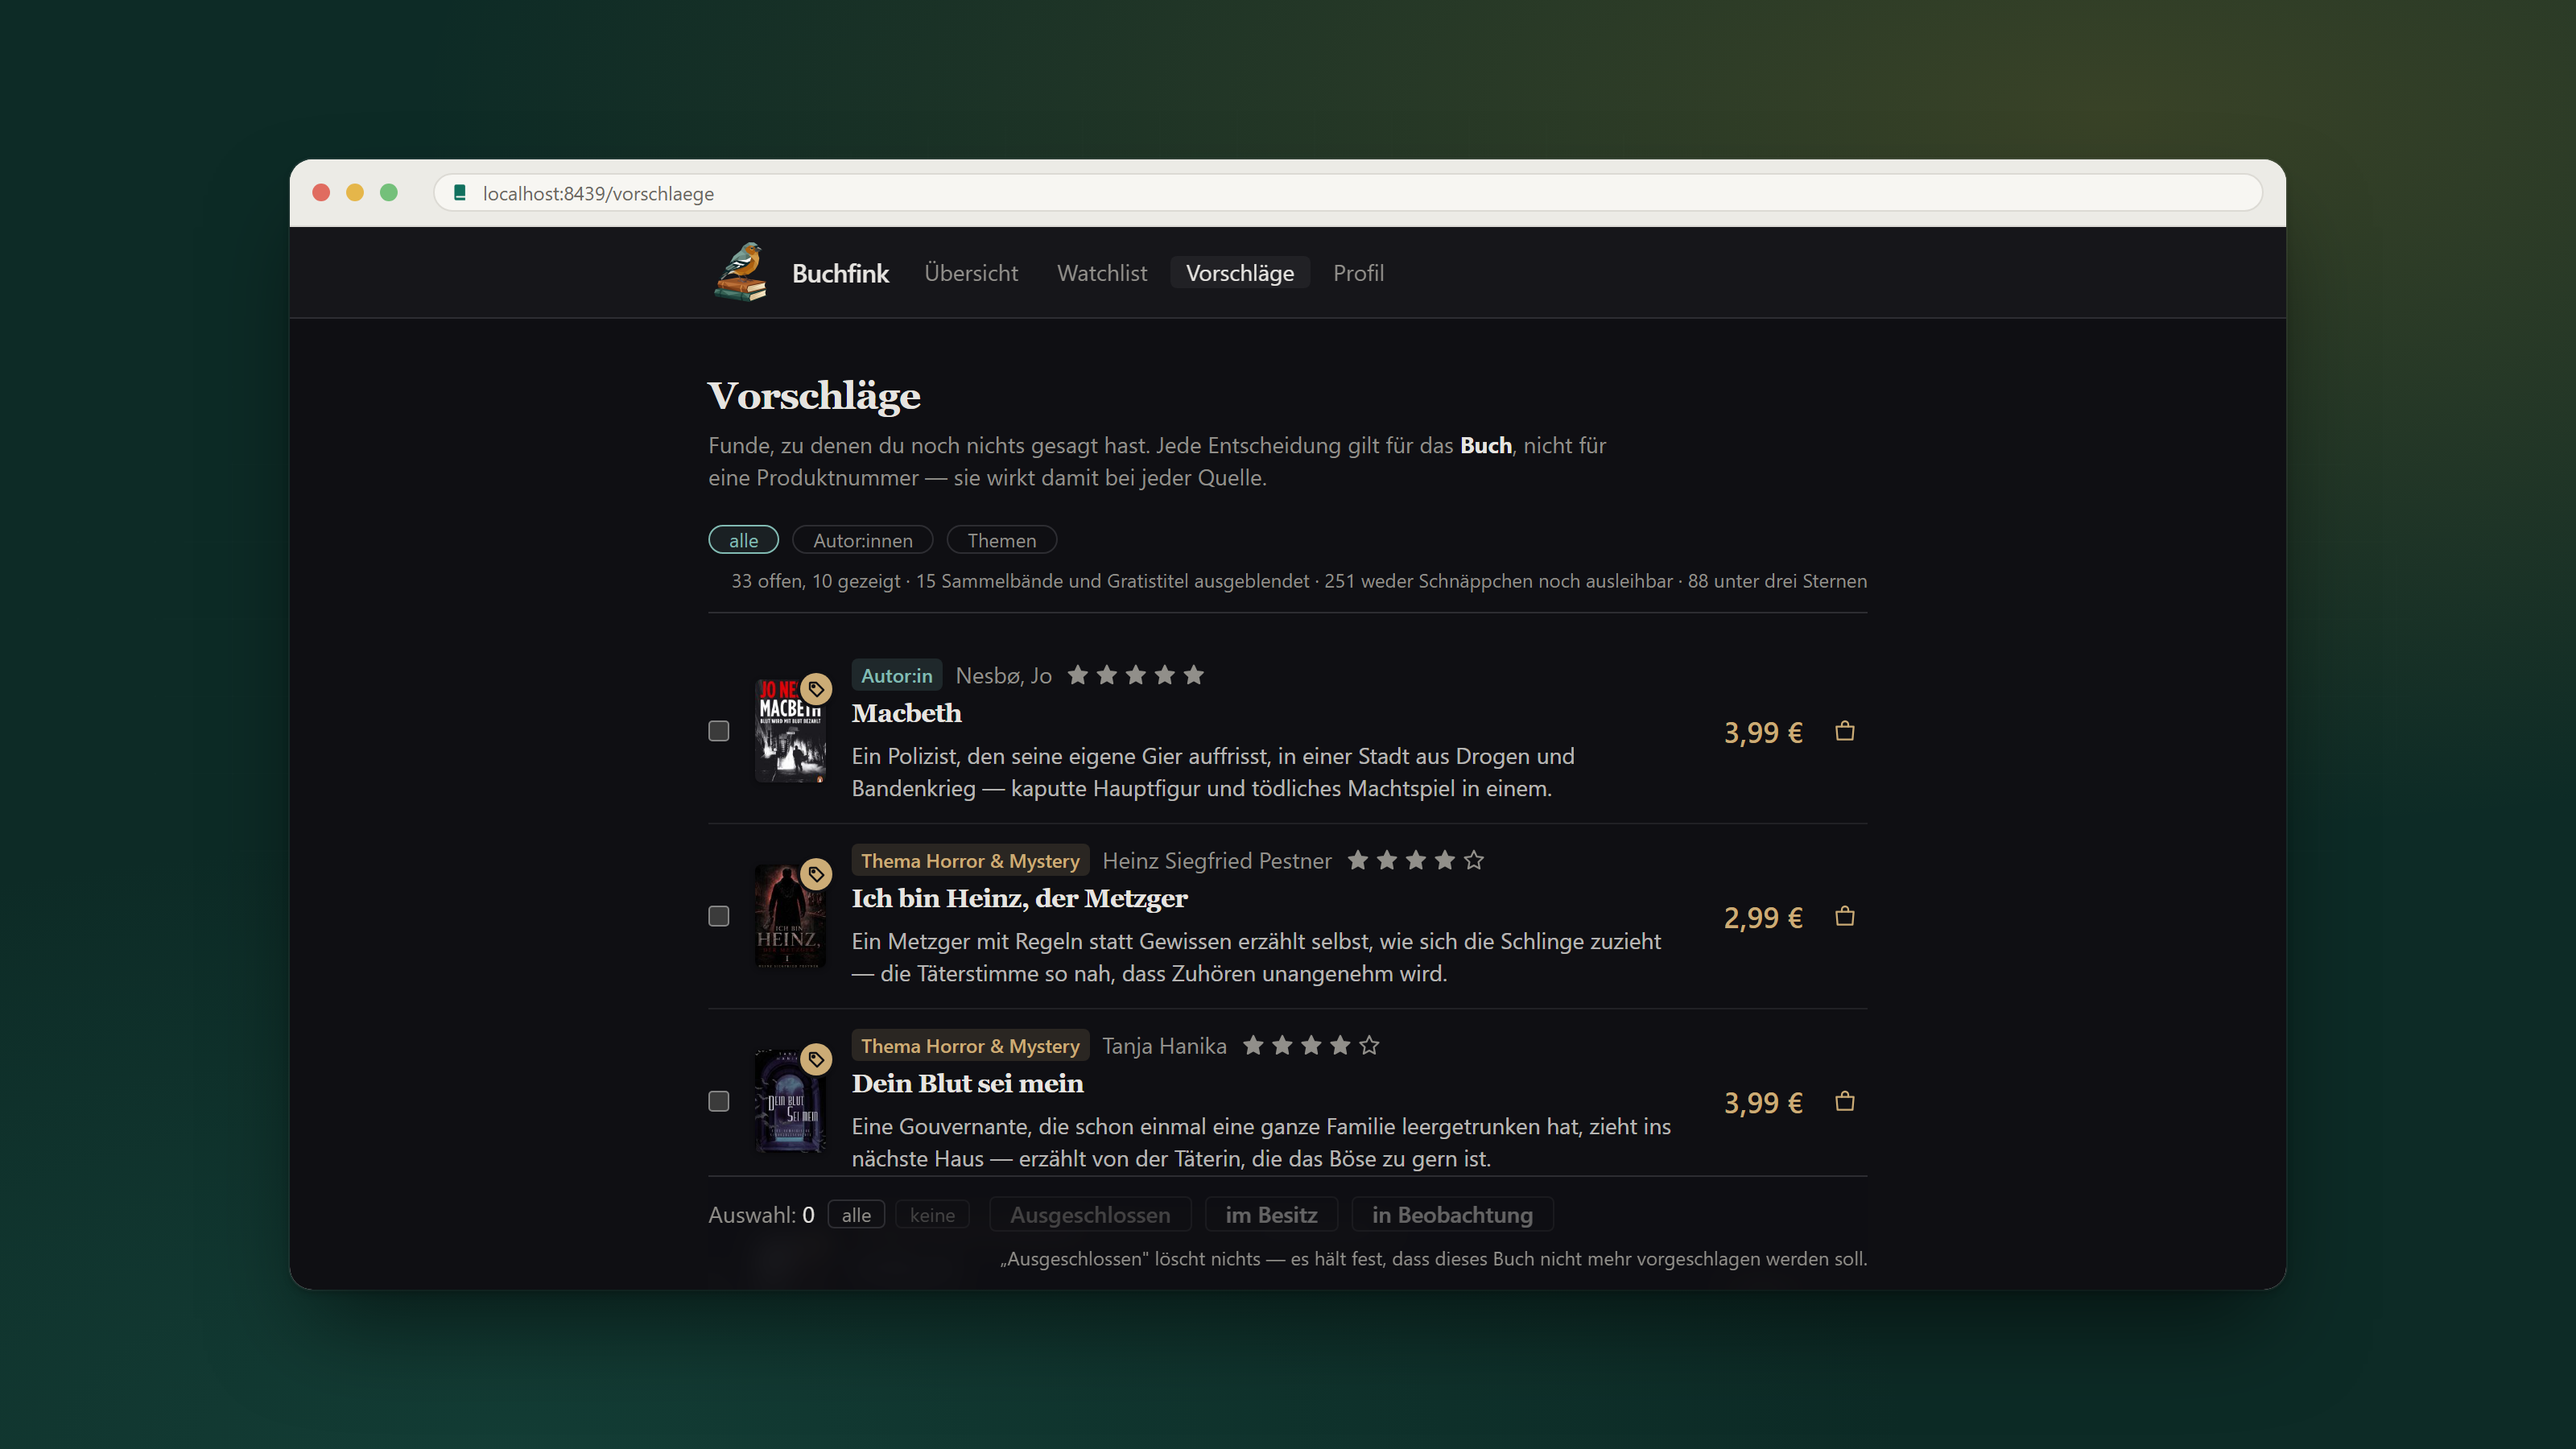
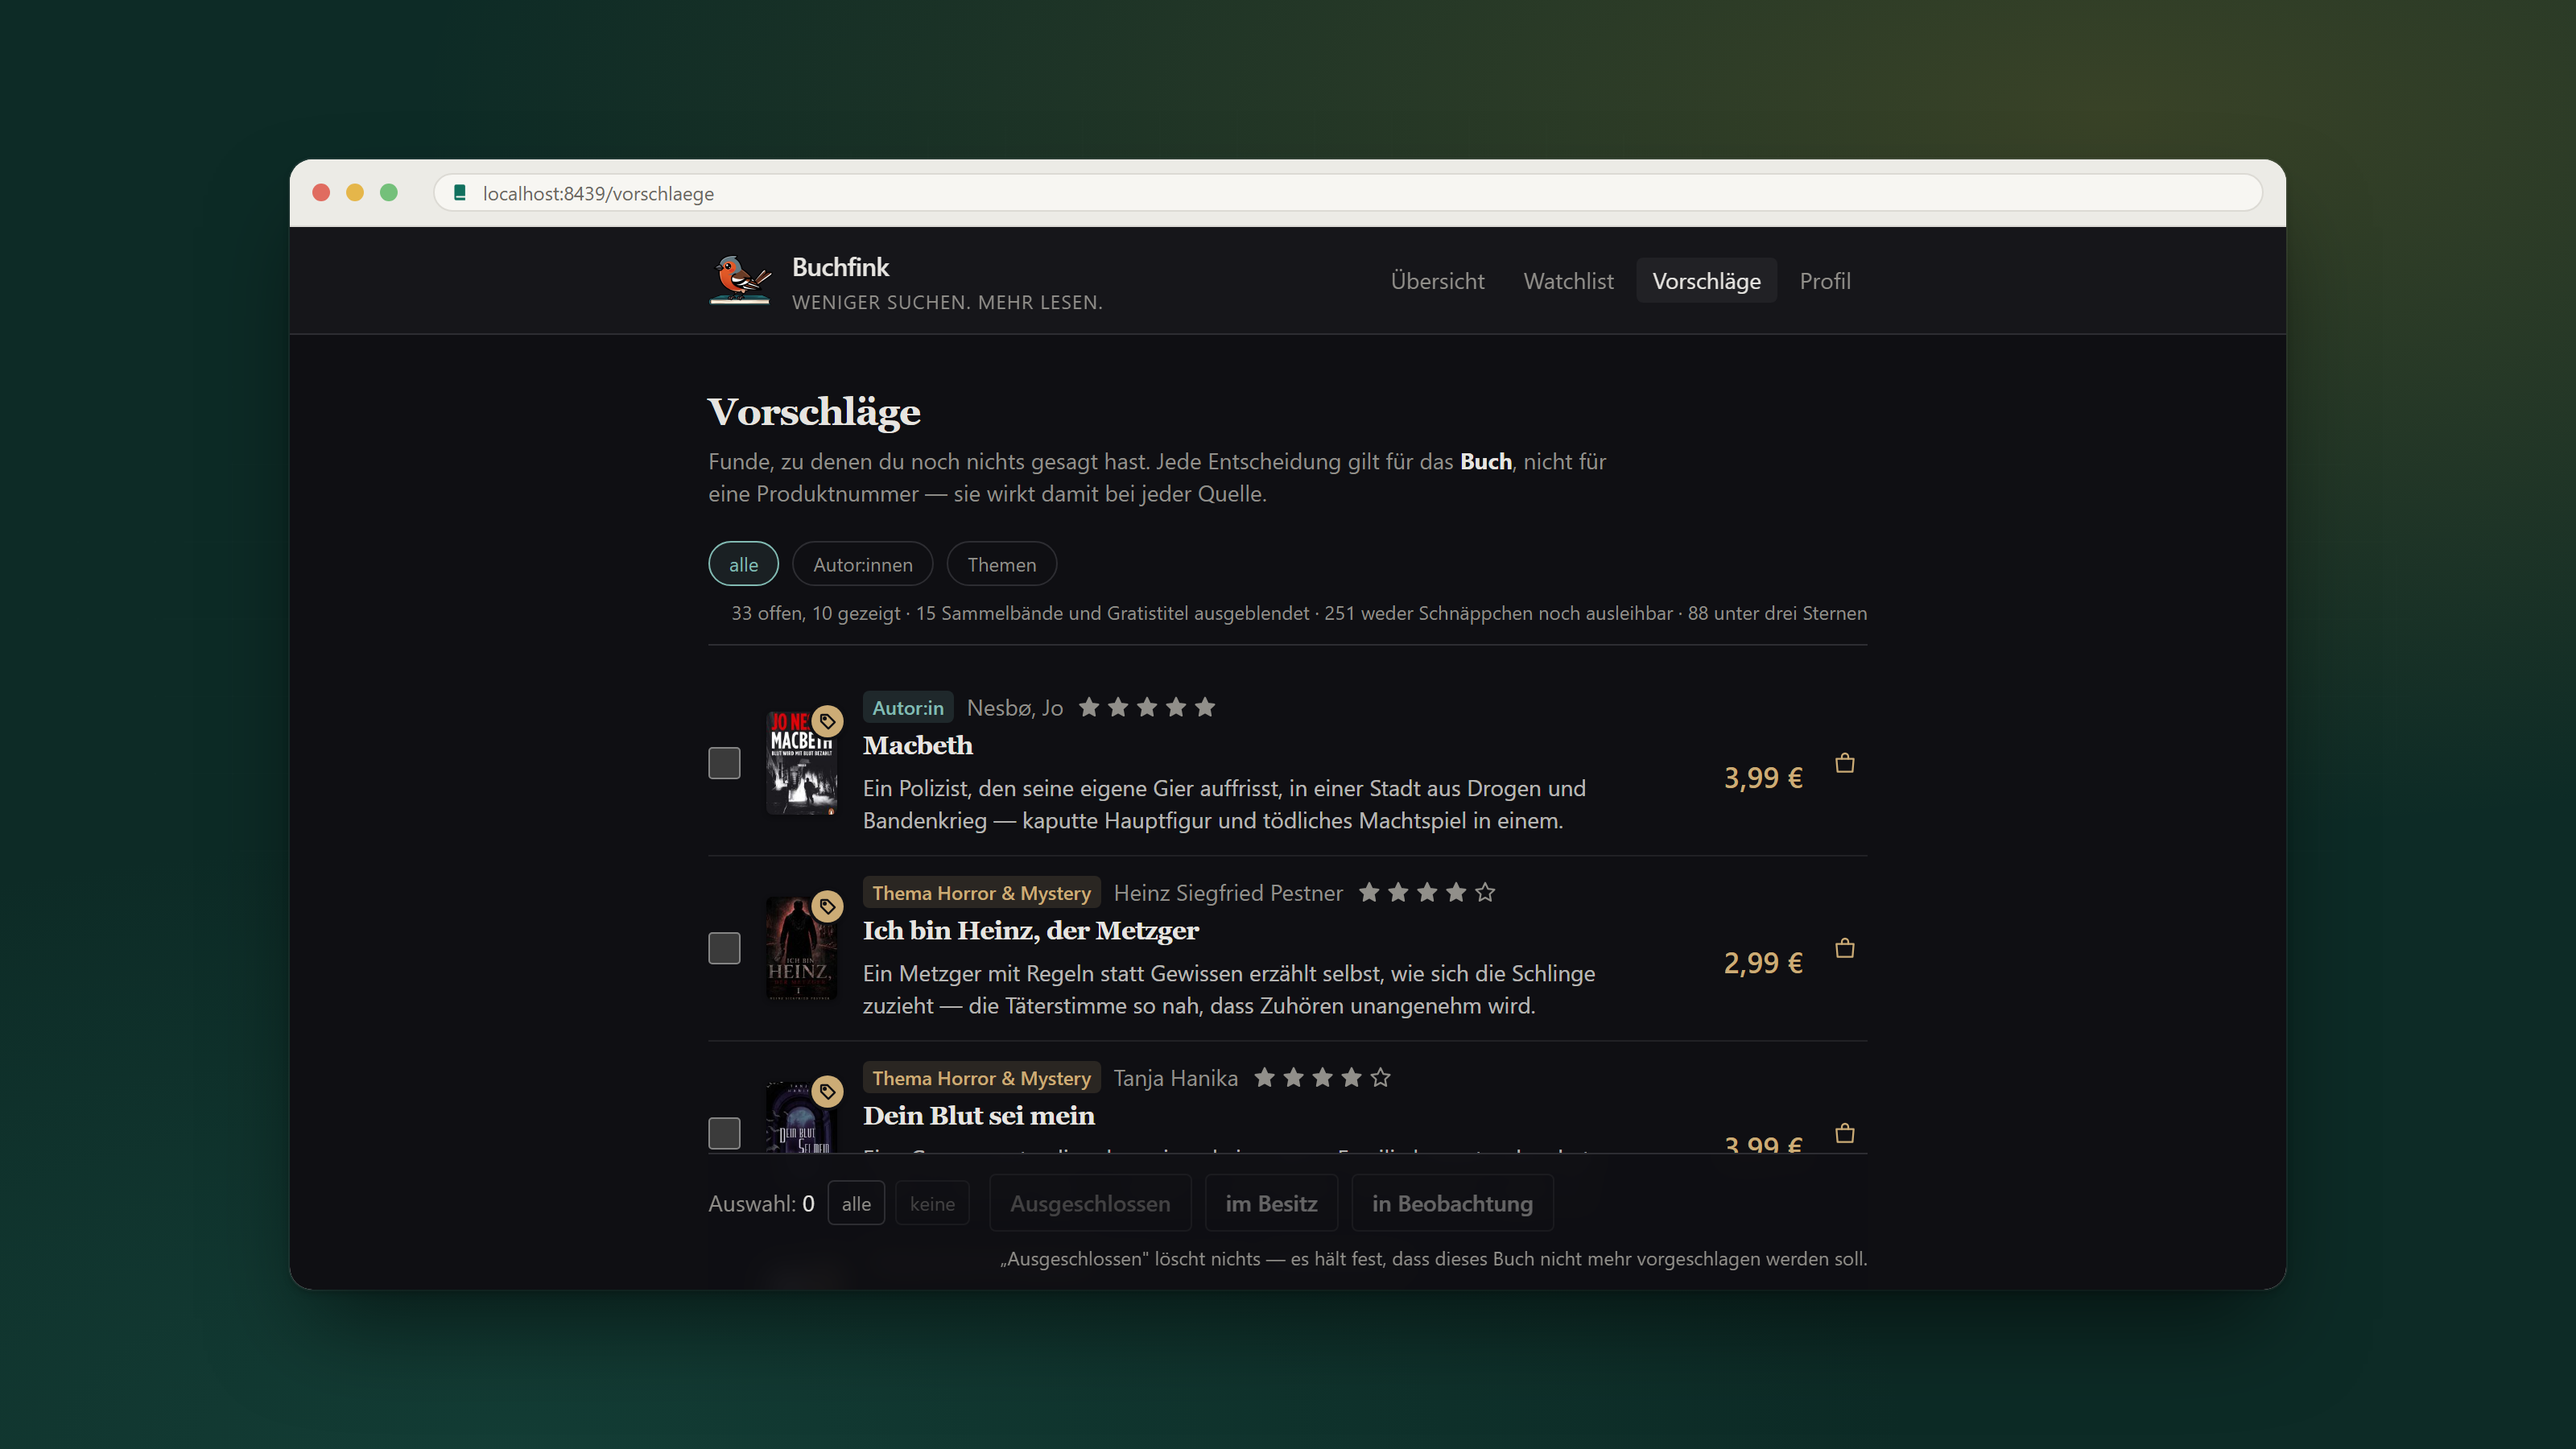
Eine dritte Szene für die Watchlist, und alle drei neu aufgenommen
Die README bekommt mit dem Umbau einen Screenshot der Watchlist dazu, also
braucht scripts/make_screenshots.py eine dritte Szene neben vorschlaege und
buchseite. Alle drei laufen gegen den neuen Kopfzeilen-Buchfink neu.

diff --git a/scripts/watchlist.html b/scripts/watchlist.html
@@ -1,0 +1,105 @@
+<!doctype html>
+<html lang="de">
+<head>
+<meta charset="utf-8">
+<title>Die Watchlist</title>
+<!--
+  Die Szene für das Bild der Watchlist in der README. Gebaut statt erzeugt: so ist sie
+  scharf in jeder Größe, zeigt die *echte* Oberfläche und lässt sich neu
+  aufnehmen, wenn sich die Seite ändert.
+
+  Aufnahme: scripts/make_screenshots.py watchlist (Chrome im Kopflos-Modus, keine neue
+  Abhängigkeit).
+
+  Die Farben sind die der Anwendung: tiefes Grün als Raum, ein warmer
+  bernsteinfarbener Lichtschein — grün = Bibliothek, bernstein = Shop.
+-->
+<style>
+  :root {
+    --gruen-tief: #0d2b26;
+    --gruen: #143f37;
+    --bernstein: #e9a02b;
+    --papier: #faf8f4;
+  }
+  * { box-sizing: border-box }
+  html, body { margin: 0; padding: 0 }
+  body {
+    width: 1600px; height: 900px;
+    display: grid; place-items: center;
+    background: var(--gruen-tief);
+    font: 15px system-ui, sans-serif;
+    overflow: hidden;
+  }
+
+  /* Der Lichtschein von oben rechts — dieselbe Idee wie das Abzeichen auf
+     einem Cover: eine warme Stelle in einem kühlen Feld. */
+  .raum {
+    position: absolute; inset: 0;
+    background:
+      radial-gradient(120% 90% at 82% 8%, rgba(233,160,43,.20), transparent 55%),
+      radial-gradient(90% 70% at 20% 100%, rgba(20,63,55,.9), transparent 60%);
+  }
+
+  /* Ein feines Raster, damit die Fläche nicht tot wirkt. */
+  .raster {
+    position: absolute; inset: 0;
+    background-image:
+      linear-gradient(rgba(255,255,255,.035) 1px, transparent 1px),
+      linear-gradient(90deg, rgba(255,255,255,.035) 1px, transparent 1px);
+    background-size: 48px 48px;
+    mask-image: radial-gradient(70% 60% at 50% 45%, #000, transparent 75%);
+  }
+
+  .fenster {
+    position: relative;
+    width: 1240px;
+    border-radius: 14px;
+    overflow: hidden;
+    background: var(--papier);
+    box-shadow:
+      0 2px 4px rgba(0,0,0,.25),
+      0 30px 60px -12px rgba(0,0,0,.55),
+      0 0 0 1px rgba(255,255,255,.08);
+  }
+
+  .leiste {
+    height: 42px;
+    display: flex; align-items: center; gap: 10px;
+    padding: 0 14px;
+    background: #ecebe6;
+    border-bottom: 1px solid #dcdad4;
+  }
+  .punkt { width: 11px; height: 11px; border-radius: 50% }
+  .p1 { background: #e06c60 } .p2 { background: #e5b64a } .p3 { background: #74c07a }
+  .pille {
+    margin-left: 12px; flex: 1;
+    height: 24px; border-radius: 12px;
+    background: #f7f6f2; border: 1px solid #dcdad4;
+    display: flex; align-items: center; gap: 7px;
+    padding: 0 10px;
+    color: #6b6862; font-size: 12px;
+  }
+  .pille svg { width: 13px; height: 13px }
+
+  iframe { display: block; width: 100%; height: 740px; border: 0 }
+</style>
+</head>
+<body>
+<div class="raum"></div>
+<div class="raster"></div>
+
+<div class="fenster">
+  <div class="leiste">
+    <span class="punkt p1"></span><span class="punkt p2"></span><span class="punkt p3"></span>
+    <span class="pille">
+      <svg viewBox="0 0 32 32" aria-hidden="true">
+        <path fill="#10705e"
+              d="M5.5 6.5A2.5 2.5 0 0 1 8 4h11.5A2.5 2.5 0 0 1 22 6.5V21.6H9.1a1.2 1.2 0 0 0 0 2.4H22V28H8a2.5 2.5 0 0 1-2.5-2.5z"/>
+      </svg>
+      localhost:8439/watchlist
+    </span>
+  </div>
+  <iframe src="http://127.0.0.1:8439/watchlist" scrolling="no"></iframe>
+</div>
+</body>
+</html>

diff --git a/scripts/make_screenshots.py b/scripts/make_screenshots.py
@@ -2,6 +2,7 @@
 
     uv run python scripts/make_screenshots.py vorschlaege
     uv run python scripts/make_screenshots.py buchseite
+    uv run python scripts/make_screenshots.py watchlist
 
 Voraussetzung: die Oberfläche läuft (``uv run python -m ebook_watchlist.web``).
 
@@ -31,6 +32,7 @@ WURZEL = Path(__file__).resolve().parent.parent
 SZENEN = {
     "vorschlaege": ("vorschlaege.html", "vorschlaege.png", "/vorschlaege", 1600, 900),
     "buchseite": ("buchseite.html", "buchseite.png", "/book/47", 1600, 1160),
+    "watchlist": ("watchlist.html", "watchlist.png", "/watchlist", 1600, 900),
 }
 
 #: Die Klammern in "ProgramFiles(x86)" sind kein gueltiger Formatname —
